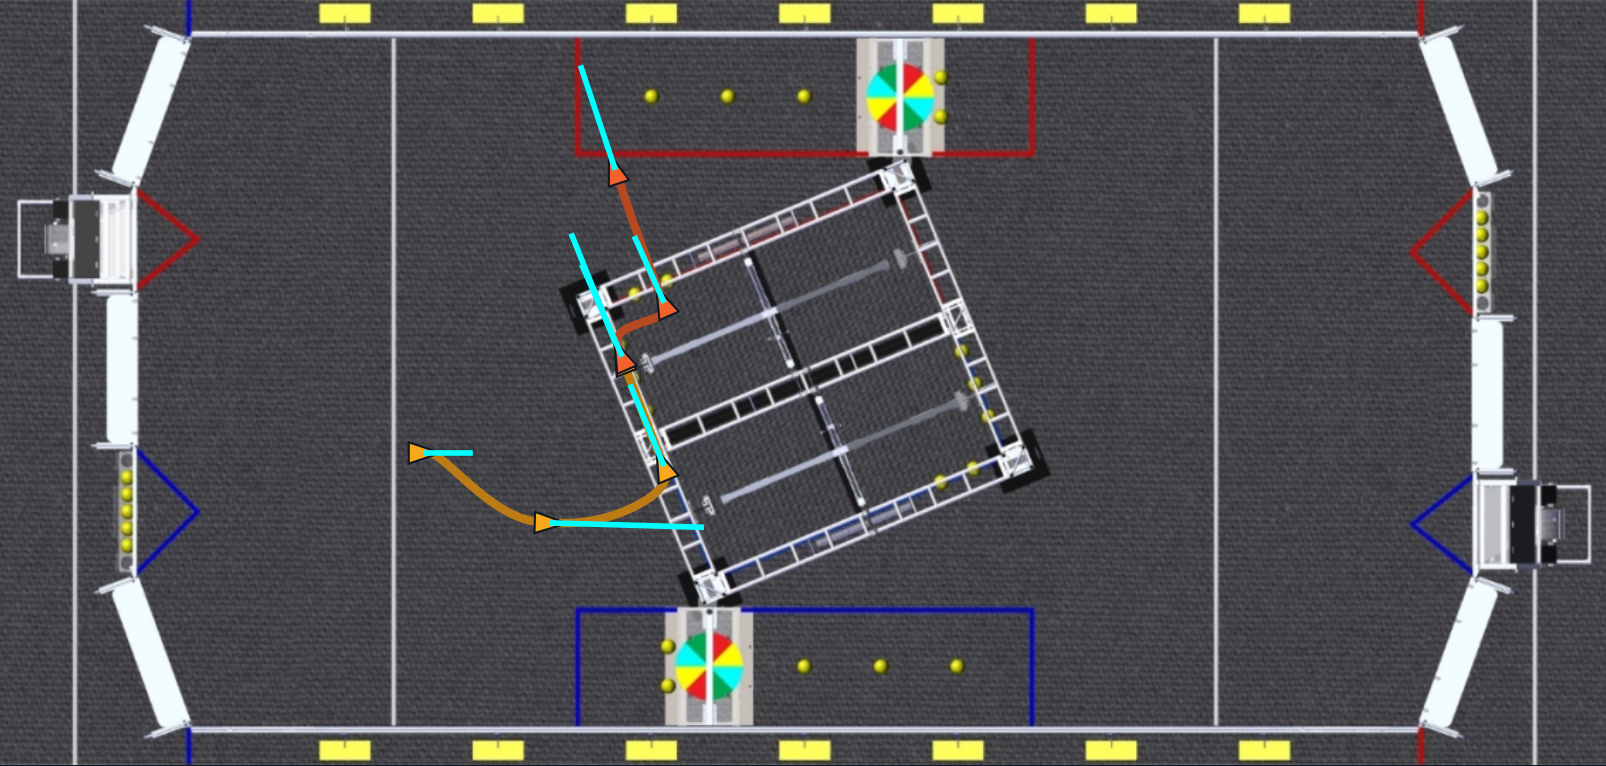
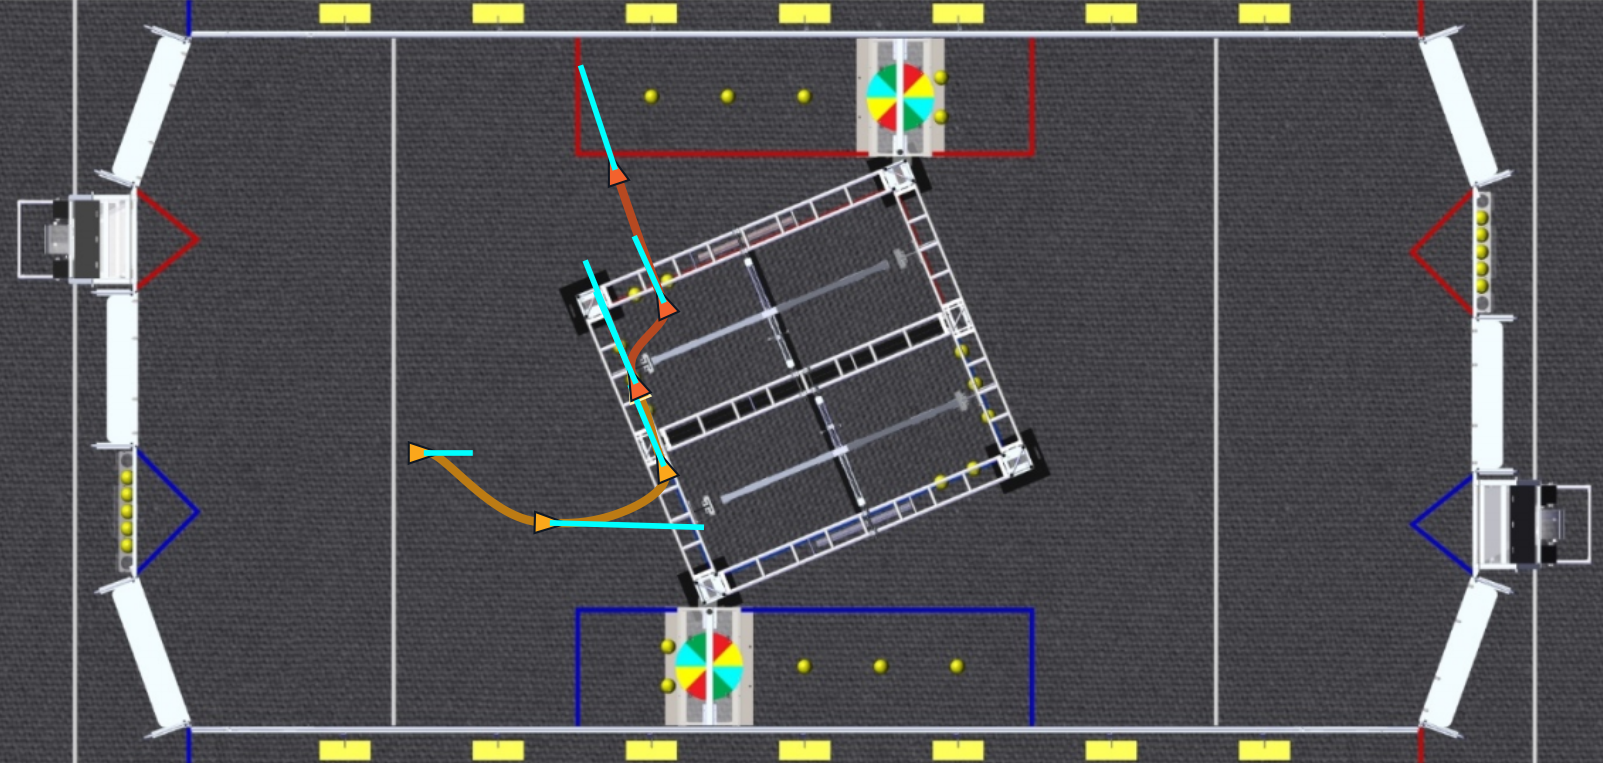
Finish 4 autos

diff --git a/src/main/java/frc/robot/RobotContainer.java b/src/main/java/frc/robot/RobotContainer.java
@@ -30,15 +30,15 @@ public class RobotContainer {
   public AttackThree leftStick = new AttackThree(DrivetrainConstants.LEFT_JOYSTICK_CHANNEL);
   public AttackThree rightStick = new AttackThree(DrivetrainConstants.RIGHT_JOYSTICK_CHANNEL);
 
-  public AbrahamBlinkinSubsystem abrahamBlinkinSubsystem = new AbrahamBlinkinSubsystem();
-  public BallPathSubsystem ballPathSubsystem = new BallPathSubsystem();
-  public ClimberSubsystem climberSubsystem = new ClimberSubsystem();
-  public CollectorSubsystem collectorSubsystem = new CollectorSubsystem();
+  public AbrahamBlinkinSubsystem abrahamBlinkinSubsystem;// = new AbrahamBlinkinSubsystem();
+  public BallPathSubsystem ballPathSubsystem;// = new BallPathSubsystem();
+  public ClimberSubsystem climberSubsystem;// = new ClimberSubsystem();
+  public CollectorSubsystem collectorSubsystem;// = new CollectorSubsystem();
   public DrivetrainSubsystem drivetrainSubsystem = new DrivetrainSubsystem();
-  public ShooterSubsystem shooterSubsystem = new ShooterSubsystem();
-  public TrenchableSubsystem trenchableSubsystem = new TrenchableSubsystem();
-  public TurretSubsystem turretSubsystem = new TurretSubsystem();
-  public VisionSubsystem visionSubsystem = new VisionSubsystem();
+  public ShooterSubsystem shooterSubsystem;// = new ShooterSubsystem();
+  public TrenchableSubsystem trenchableSubsystem;// = new TrenchableSubsystem();
+  public TurretSubsystem turretSubsystem;// = new TurretSubsystem();
+  public VisionSubsystem visionSubsystem;// = new VisionSubsystem();
 
   private Color color = Color.CORRUPT;
 
@@ -63,9 +63,9 @@ public class RobotContainer {
    */
   private void setDefaultCommands() {
     drivetrainSubsystem.setDefaultCommand(new DefaultDriveCommand(this));
-    shooterSubsystem.setDefaultCommand(new ShooterShuffleBoardCommand(this)); //TODO: remove after tuned
-    abrahamBlinkinSubsystem.setDefaultCommand(new AllianceColorCommand(this));
-    ballPathSubsystem.setDefaultCommand(new DefaultShiftCellCommand(this));
+//    shooterSubsystem.setDefaultCommand(new ShooterShuffleBoardCommand(this)); //TODO: remove after tuned
+//    abrahamBlinkinSubsystem.setDefaultCommand(new AllianceColorCommand(this));
+//    ballPathSubsystem.setDefaultCommand(new DefaultShiftCellCommand(this));
   }
 
   /**

diff --git a/src/main/java/frc/robot/commands/auto/normal/rendezvous/RendezvousBeamRideAutoCommand.java b/src/main/java/frc/robot/commands/auto/normal/rendezvous/RendezvousBeamRideAutoCommand.java
@@ -1,14 +1,32 @@
 package frc.robot.commands.auto.normal.rendezvous;
 
+import edu.wpi.first.wpilibj2.command.ParallelCommandGroup;
 import edu.wpi.first.wpilibj2.command.SequentialCommandGroup;
 import frc.robot.RobotContainer;
+import frc.robot.commands.collector.CollectCommand;
 import frc.robot.commands.drivetrain.TrajectoryFollowerCommand;
+import frc.robot.commands.shooter.AutoAimAndShootCommand;
+import frc.robot.commands.trenchable.UntrenchCommand;
 
 public class RendezvousBeamRideAutoCommand extends SequentialCommandGroup {
   public RendezvousBeamRideAutoCommand(RobotContainer robotContainer) {
     addCommands(
-        new TrajectoryFollowerCommand(robotContainer, RendezvousTrajectories.BEAM_RIDE_GRAB_THREE),
-        new TrajectoryFollowerCommand(robotContainer, RendezvousTrajectories.BEAM_RIDE_GRAB_TWO)
+        // grab first two balls, to make five in robot
+        new ParallelCommandGroup(
+            new UntrenchCommand(robotContainer),
+            new CollectCommand(robotContainer).withTimeout(5),
+            new TrajectoryFollowerCommand(robotContainer, RendezvousTrajectories.BEAM_RIDE_GRAB_THREE)
+        ),
+        // shoot 5 balls
+        new AutoAimAndShootCommand(robotContainer),
+        // pick up three balls
+        new ParallelCommandGroup(
+            new UntrenchCommand(robotContainer),
+            new CollectCommand(robotContainer).withTimeout(5),
+            new TrajectoryFollowerCommand(robotContainer, RendezvousTrajectories.BEAM_RIDE_GRAB_TWO)
+        ),
+        // shoot last three
+        new AutoAimAndShootCommand(robotContainer)
     );
   }
 }

diff --git a/src/main/java/frc/robot/commands/auto/normal/trench/TrenchAutoCommand.java b/src/main/java/frc/robot/commands/auto/normal/trench/TrenchAutoCommand.java
@@ -1,13 +1,24 @@
 package frc.robot.commands.auto.normal.trench;
 
+import edu.wpi.first.wpilibj2.command.ParallelCommandGroup;
 import edu.wpi.first.wpilibj2.command.SequentialCommandGroup;
 import frc.robot.RobotContainer;
+import frc.robot.commands.collector.CollectCommand;
 import frc.robot.commands.drivetrain.TrajectoryFollowerCommand;
+import frc.robot.commands.shooter.AutoAimAndShootCommand;
 
 public class TrenchAutoCommand extends SequentialCommandGroup {
   public TrenchAutoCommand(RobotContainer robotContainer) {
     addCommands(
-        new TrajectoryFollowerCommand(robotContainer, TrenchTrajectories.GRAB),
-        new TrajectoryFollowerCommand(robotContainer, TrenchTrajectories.RETURN));
+        // Collect five balls from enemy trench
+        new ParallelCommandGroup(
+            new TrajectoryFollowerCommand(robotContainer, TrenchTrajectories.GRAB),
+            new CollectCommand(robotContainer).withTimeout(5)
+        ),
+        // run away
+        new TrajectoryFollowerCommand(robotContainer, TrenchTrajectories.RETURN),
+        // shoot 5
+        new AutoAimAndShootCommand(robotContainer)
+    );
   }
 }

diff --git a/src/main/java/frc/robot/commands/auto/thief/oppositefive/OppositeFiveAutoCommand.java b/src/main/java/frc/robot/commands/auto/thief/oppositefive/OppositeFiveAutoCommand.java
@@ -1,13 +1,24 @@
 package frc.robot.commands.auto.thief.oppositefive;
 
+import edu.wpi.first.wpilibj2.command.ParallelCommandGroup;
 import edu.wpi.first.wpilibj2.command.SequentialCommandGroup;
 import frc.robot.RobotContainer;
+import frc.robot.commands.collector.CollectCommand;
 import frc.robot.commands.drivetrain.TrajectoryFollowerCommand;
+import frc.robot.commands.shooter.AutoAimAndShootCommand;
 
 public class OppositeFiveAutoCommand extends SequentialCommandGroup {
   public OppositeFiveAutoCommand(RobotContainer robotContainer) {
     addCommands(
-        new TrajectoryFollowerCommand(robotContainer, OppositeFiveTrajectories.OPPOSITE)
+        // Collect five balls from the enemy rendezvous
+        new ParallelCommandGroup(
+            new CollectCommand(robotContainer).withTimeout(9),
+            new TrajectoryFollowerCommand(robotContainer, OppositeFiveTrajectories.OPPOSITE)
+        ),
+        // spin in place
+        new TrajectoryFollowerCommand(robotContainer, OppositeFiveTrajectories.SPIN),
+        // shoot five
+        new AutoAimAndShootCommand(robotContainer)
     );
   }
 }

diff --git a/src/main/java/frc/robot/commands/auto/thief/oppositefive/OppositeFiveTrajectories.java b/src/main/java/frc/robot/commands/auto/thief/oppositefive/OppositeFiveTrajectories.java
@@ -10,13 +10,21 @@ import frc.robot.commands.auto.Trajectories;
 import java.util.List;
 
 public final class OppositeFiveTrajectories extends Trajectories {
+  private static Pose2d STEAL_END = new Pose2d(5.600, -2.418, new Rotation2d(Units.degreesToRadians(180.00)));
   public static final Trajectory OPPOSITE = TrajectoryGenerator.generateTrajectory(
       List.of(
           new Pose2d(4.277, -7.421, new Rotation2d(Units.degreesToRadians(0.00))),
           new Pose2d(6.256, -6.351, new Rotation2d(Units.degreesToRadians(16.14))),
           new Pose2d(10.052, -4.805, new Rotation2d(Units.degreesToRadians(72.73))),
           new Pose2d(9.706, -3.370, new Rotation2d(Units.degreesToRadians(112.82))),
-          new Pose2d(5.600, -2.418, new Rotation2d(Units.degreesToRadians(180.00)))
+          STEAL_END
       ),
-      FORWARD_CONFIG);
+      BACKWARD_CONFIG);
+  public static final Trajectory SPIN = TrajectoryGenerator.generateTrajectory(
+      List.of(
+          STEAL_END,
+          new Pose2d(4.847, -3.033, new Rotation2d(0))
+      ),
+      FORWARD_CONFIG
+  );
 }

diff --git a/src/main/java/frc/robot/commands/auto/normal/rendezvous/RendezvousTrajectories.java b/src/main/java/frc/robot/commands/auto/normal/rendezvous/RendezvousTrajectories.java
@@ -11,7 +11,7 @@ import java.util.List;
 
 public class RendezvousTrajectories extends Trajectories {
   private static final Pose2d RENDEZVOUS_START = new Pose2d(3.50, -4.96, new Rotation2d(0.0));
-  private static final Pose2d BEAM_RIDE_GRAB_THREE_END = new Pose2d(5.81, -3.818, new Rotation2d(Units.degreesToRadians(111)));
+  private static final Pose2d BEAM_RIDE_GRAB_THREE_END = new Pose2d(5.977, -4.04, new Rotation2d(Units.degreesToRadians(111)));
   public final static Trajectory BEAM_RIDE_GRAB_THREE = TrajectoryGenerator.generateTrajectory(
       List.of(
           RENDEZVOUS_START,
